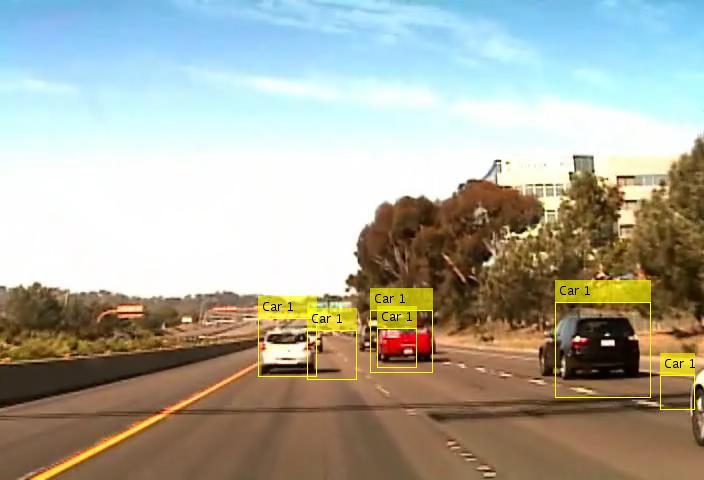
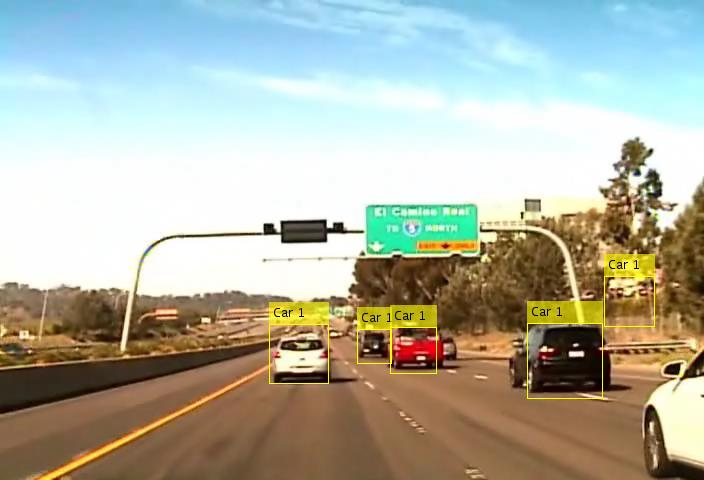
Pushing the intial setup before pointTracking

diff --git a/code/CarTracking.m b/code/CarTracking.m
@@ -1,0 +1,59 @@
+%% Params
+N = 30; % Number of frames after which detector should be called again
+global bbox_dist_thresh;
+global min_bbox_ratio;
+global max_bbox_ratio;
+global max_area_bbox;
+global min_area_bbox;
+global bbox_exist;
+global car_count;
+bbox_dist_thresh = 5;
+min_bbox_ratio = 0.7;
+max_bbox_ratio = 1.3;
+max_area_bbox = 100 * 100;
+min_area_bbox = 30 * 30;
+bbox_exist = 5;
+car_count = 1;
+
+roi_row = 260;
+%% Initialize the bbox structs
+field_1 = 'bbox';
+field_2 = 'color';
+field_3 = 'num';
+value_1 = {[]};
+prev_bbox = struct(field_1, value_1, field_2, value_1, field_3, value_1);
+curr_bbox = struct(field_1, value_1, field_2, value_1, field_3, value_1);
+%% Detection Init
+inpFramesPath = '..\input\simple';
+second_frame = 'Frame 284.jpg';
+first_frame = 'Frame 283.jpg';
+second_file = fullfile(inpFramesPath, second_frame);
+first_file = fullfile(inpFramesPath, first_frame);
+first_img = imread(first_file);
+second_img = imread(second_file);
+roi = [1,roi_row,size(first_img,2),size(first_img,1)-roi_row];
+
+detector = vision.CascadeObjectDetector('CarDetector_0.01.xml');
+detector.UseROI = true;
+bbox_1 = step(detector,first_img,roi);
+bbox_2 = step(detector,second_img,roi);
+
+bbox = filter_bbox(bbox_1, bbox_2);
+curr_color = zeros(size(bbox,1),3);
+curr_num = zeros(size(bbox,1),1);
+
+for i = 1: size(bbox,1)
+    curr_color(i,:) = (rand(3,1))';
+    curr_num(i) = car_count;
+    car_count = car_count + 1;
+end
+
+prev_bbox.bbox = bbox;
+prev_bbox.color = curr_color;
+prev_bbox.num = curr_num;
+
+%% Testing
+detectedImg = insertObjectAnnotation(first_img,'rectangle',bbox,'Car 1');
+figure;
+imshow(detectedImg)
+%%

diff --git a/code/filter_bbox.m b/code/filter_bbox.m
@@ -1,0 +1,24 @@
+function bbox = filter_bbox(bbox_1,bbox_2)
+global max_area_bbox;
+global min_area_bbox;
+global min_bbox_ratio;
+global max_bbox_ratio;
+global bbox_dist_thresh;
+
+bbox = [];
+for i = 1 :size(bbox_1,1)
+    area_1 = bbox_1(i,3) * bbox_1(i,4);
+    cent_1 = [bbox_1(i,1) + bbox_1(i,3) / 2, bbox_1(i,2) + bbox_1(i,4) / 2];
+    if area_1 > max_area_bbox || area_1 < min_area_bbox
+        continue;
+    end
+    for j = 1:size(bbox_2,1)
+        area_2 = bbox_2(j,3) * bbox_2(j,4);
+        cent_2 = [bbox_2(j,1) + bbox_2(j,3) / 2, bbox_2(j,2) + bbox_2(j,4) / 2];
+        if hypot((cent_2(1) - cent_1(1)), (cent_2(2) - cent_1(2))) < bbox_dist_thresh && ...
+             (area_1 / area_2) > min_bbox_ratio && (area_1 / area_2) < max_bbox_ratio
+         bbox = [bbox; bbox_1(i,:)];
+        end
+    end
+end       
+end

diff --git a/code/carTracking_demo.m b/code/carTracking_demo.m
@@ -1,10 +1,10 @@
 %% Test the trained classifier on the given video sequence
 %TODO: test for 20-30 frames
 %Detection is time consuming
-detector = vision.CascadeObjectDetector('CarDetector.xml');
+detector = vision.CascadeObjectDetector('CarDetector_0.01.xml');
 img = imread('Frame 2.jpg');
 bbox = step(detector,img);
 detectedImg = insertObjectAnnotation(img,'rectangle',bbox,'Car 1');
 figure;
 imshow(detectedImg);
-%imwrite(detectedImg, 'detectedImg.jpg')
+imwrite(detectedImg, 'detectedImg.jpg')
